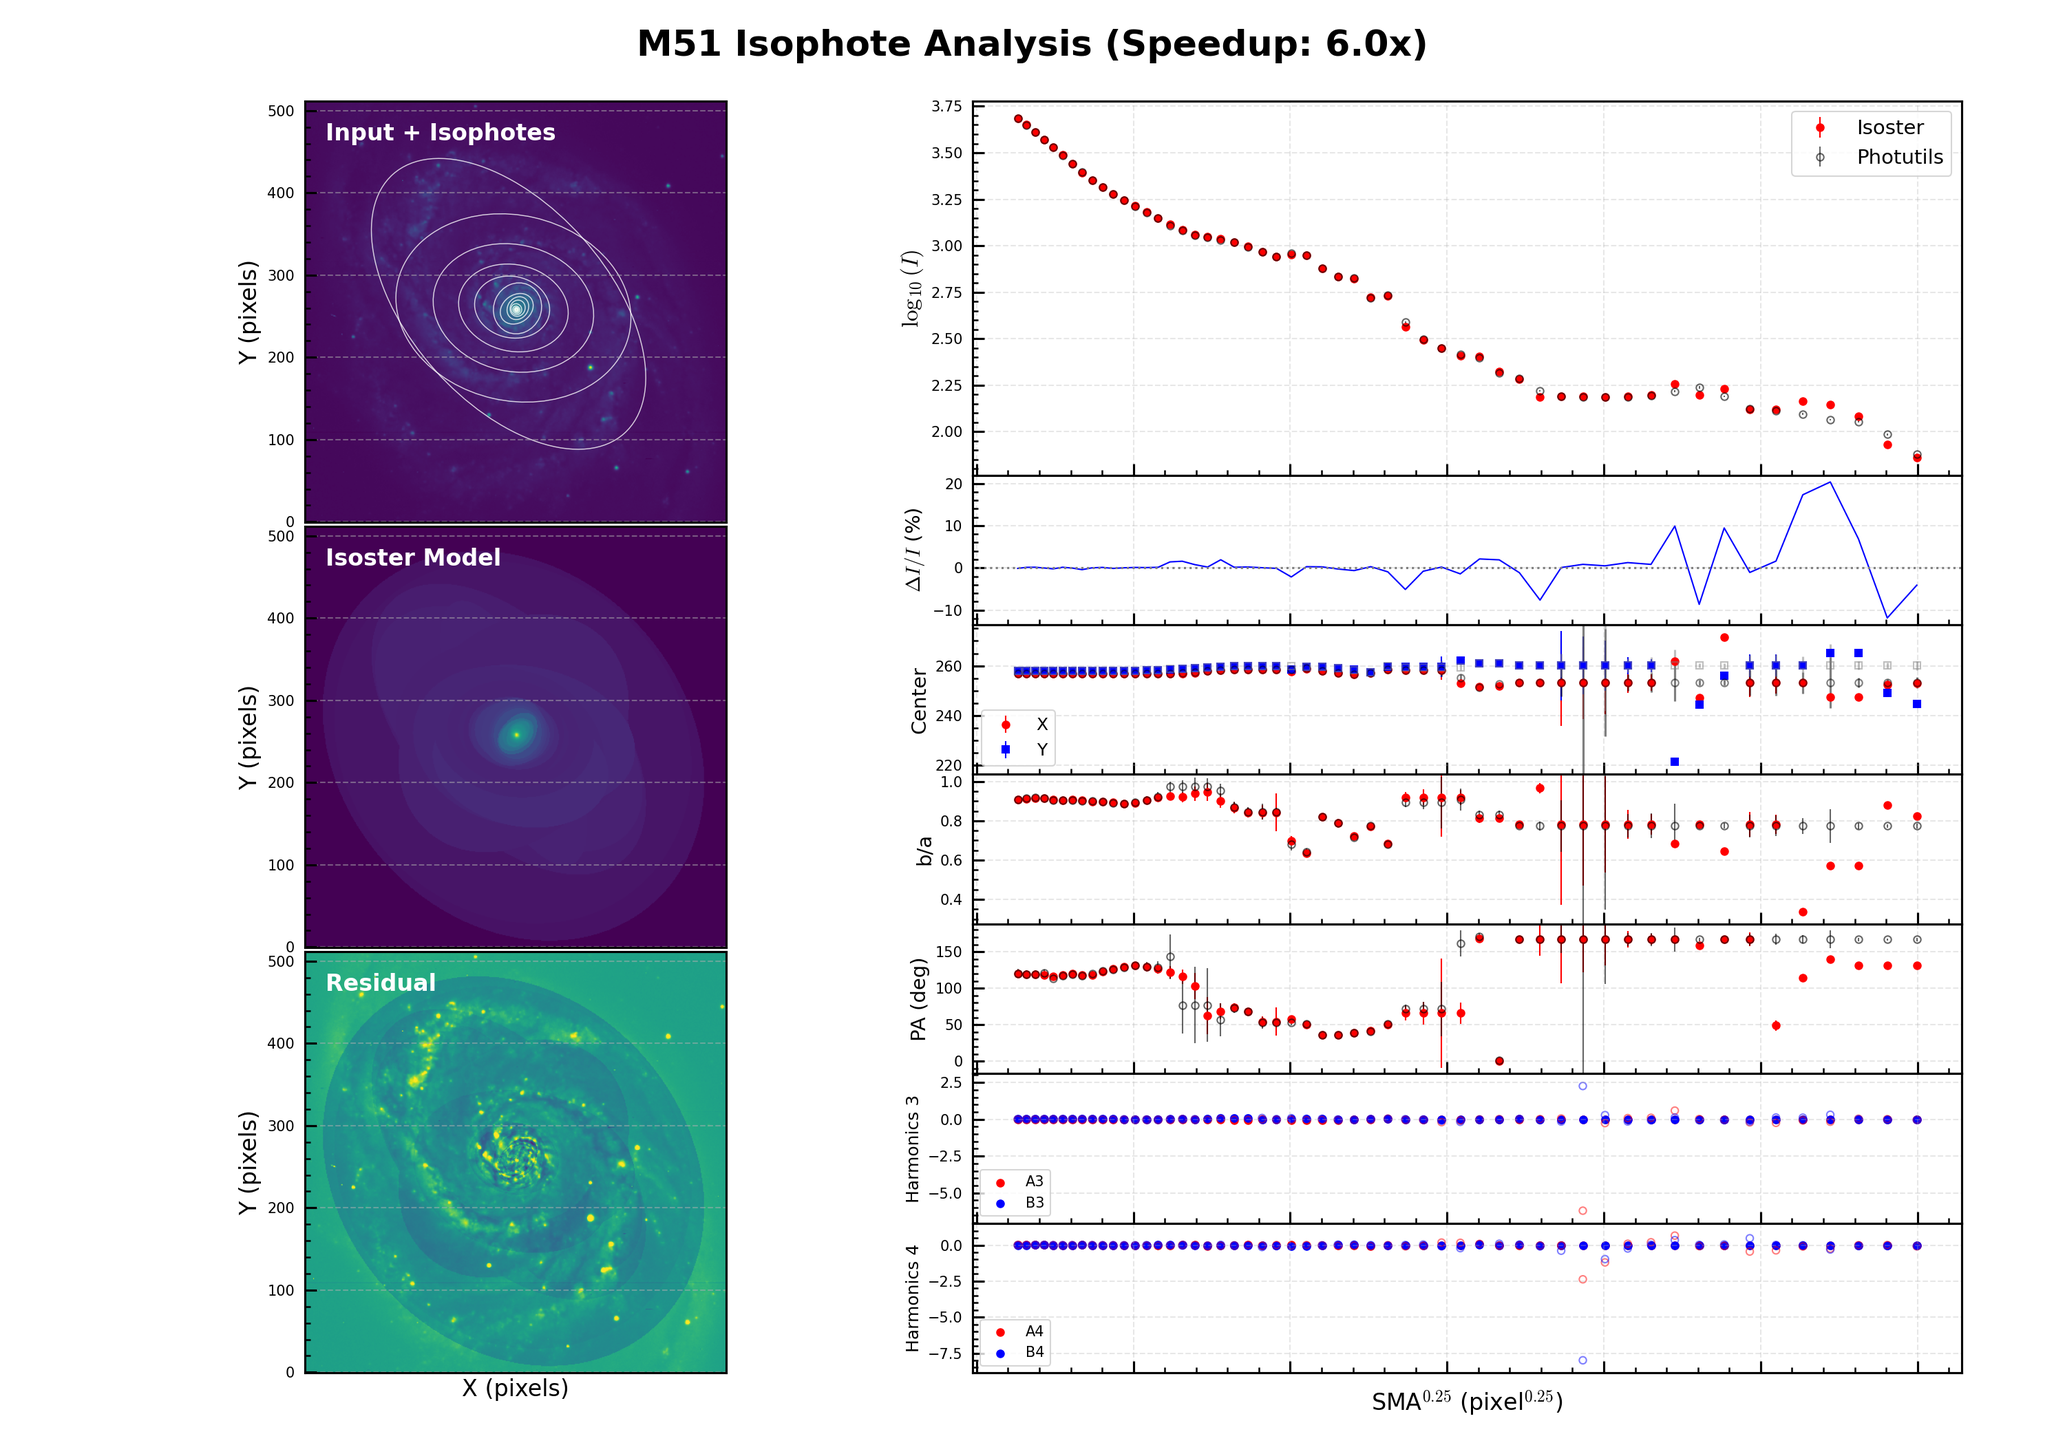
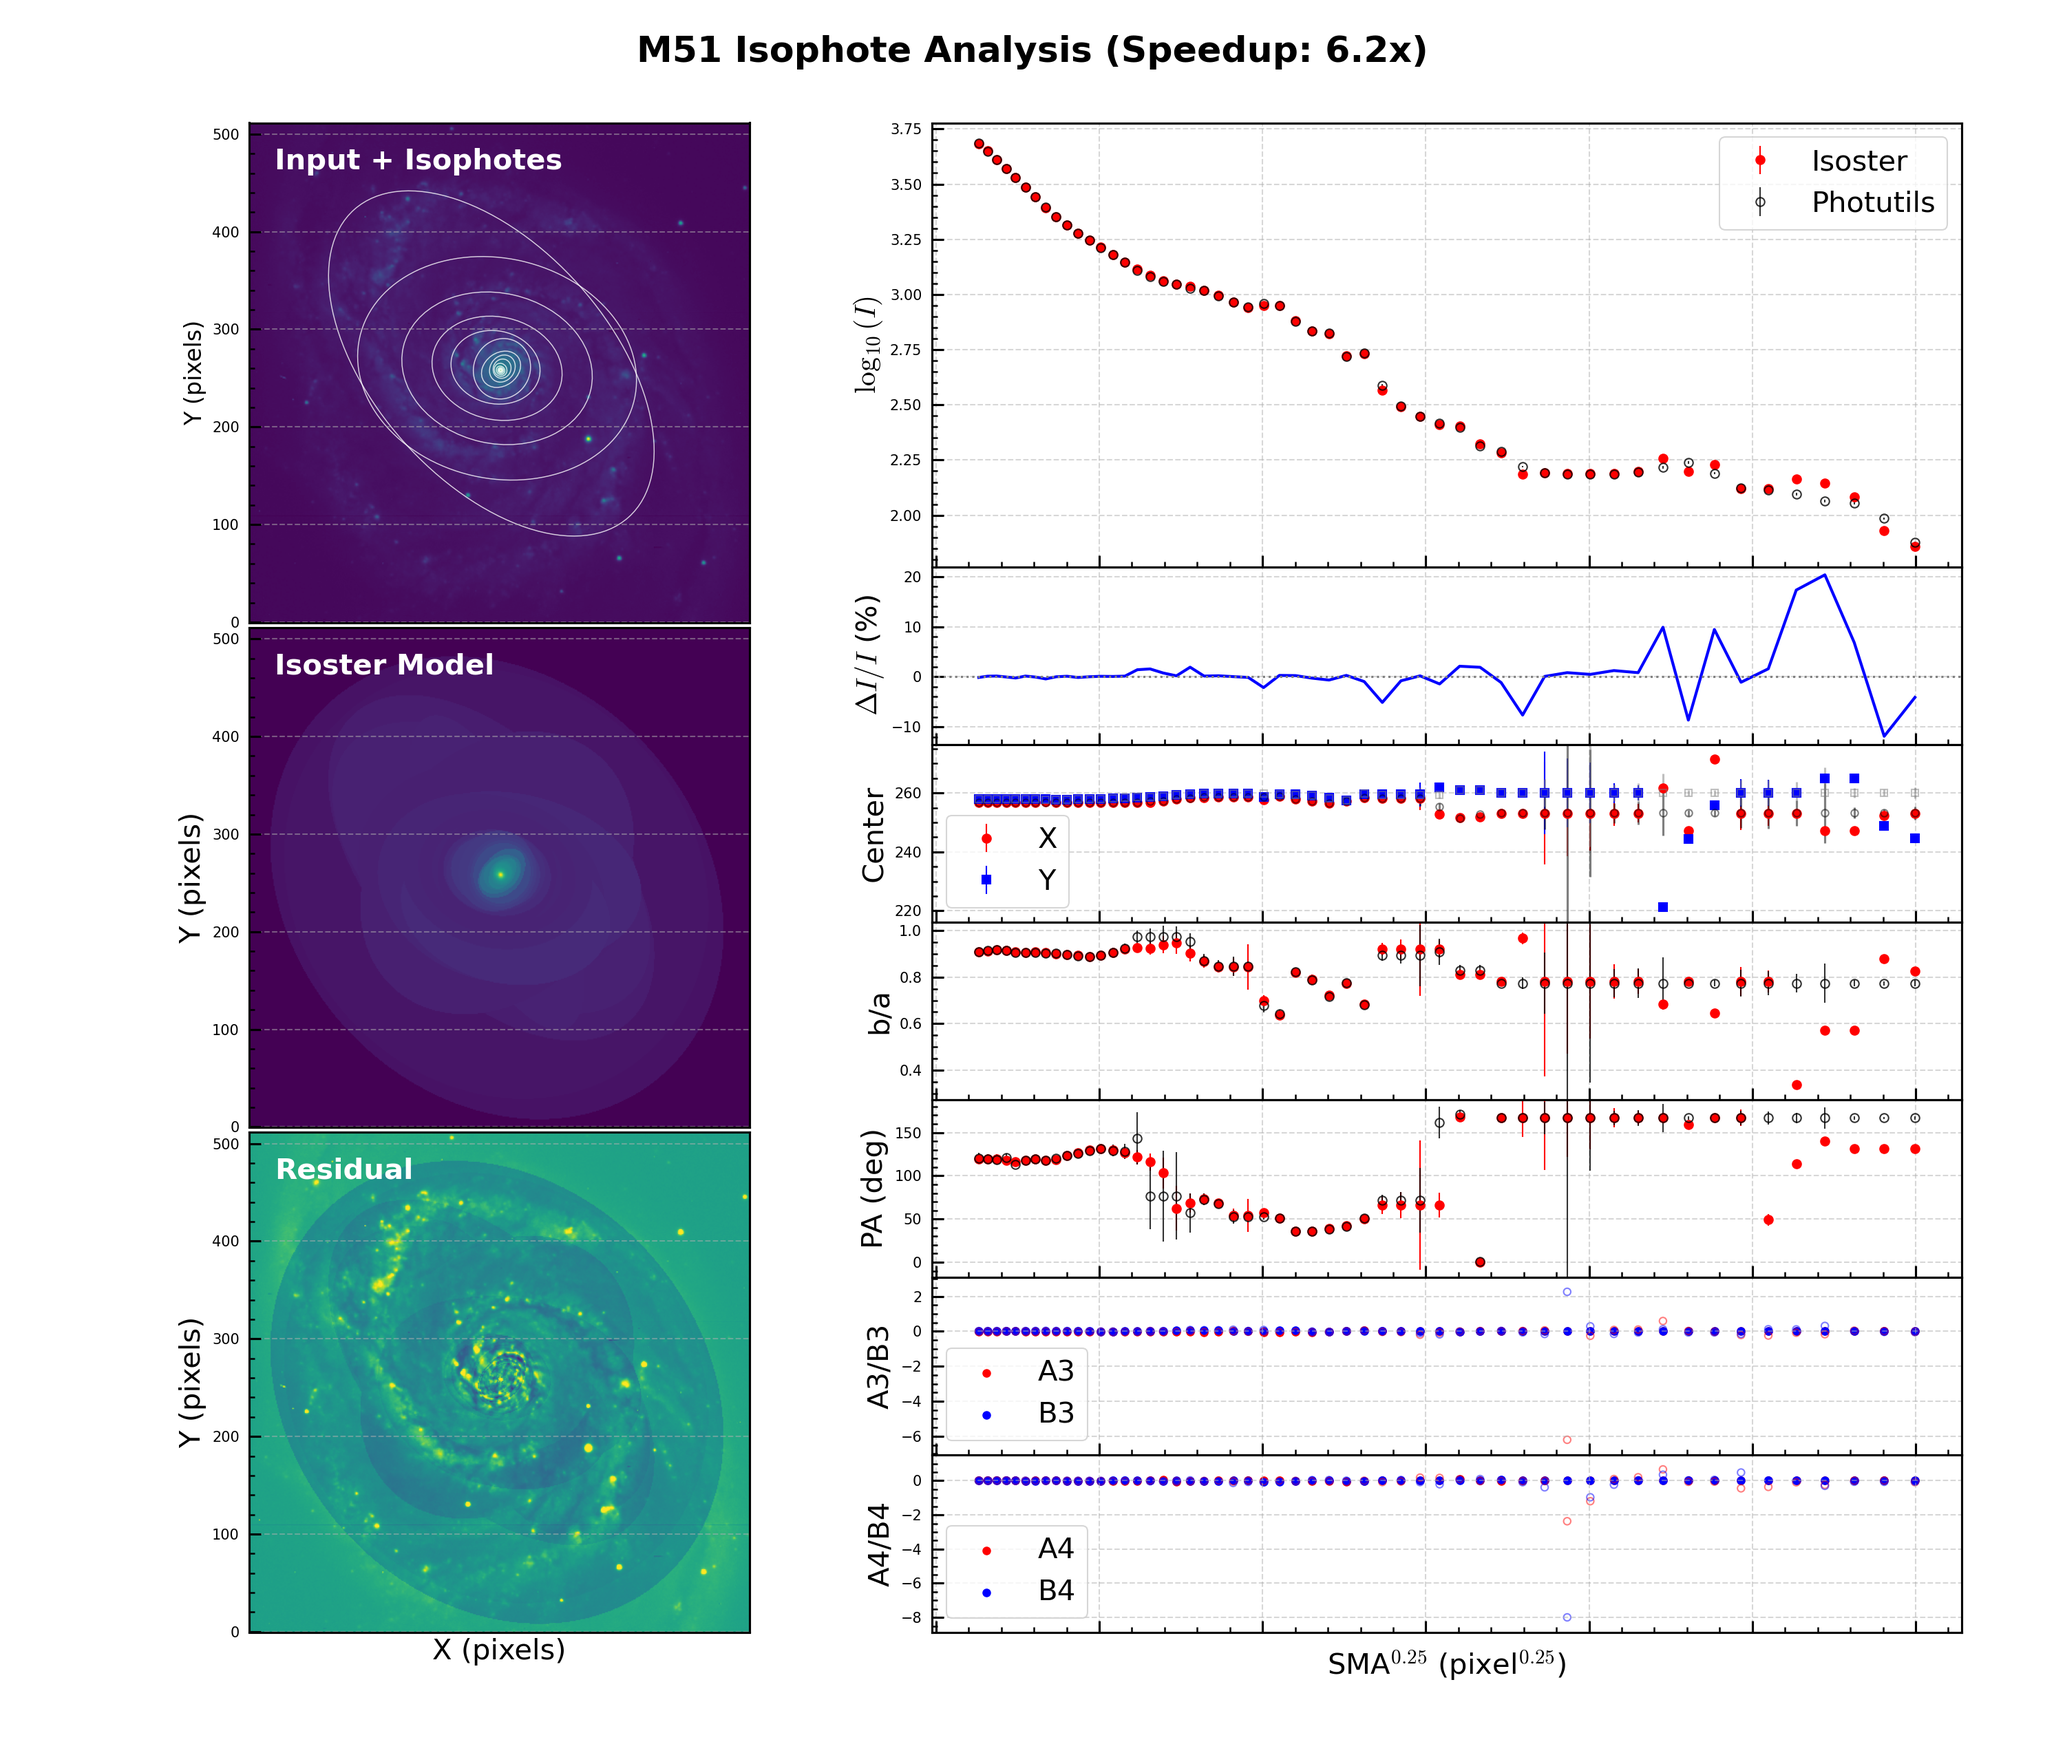
Manual plotting refinements: font sizes and layout

diff --git a/isoster/plotting.py b/isoster/plotting.py
@@ -38,11 +38,11 @@ def plot_qa_summary(title, image, isoster_model, isoster_res, photutils_res=None
         Output filename.
     """
     # Create Figure with constrained layout for better spacing control
-    fig = plt.figure(figsize=(20, 14))
+    fig = plt.figure(figsize=(20, 17))
     
     # Outer GridSpec: 1 row, 2 columns (Images vs Profiles)
     # Adjust top margin to bring title closer - user layout preserved
-    outer_gs = gridspec.GridSpec(1, 2, width_ratios=[1, 1.2], wspace=0.05, top=0.93, bottom=0.05, left=0.05, right=0.95)
+    outer_gs = gridspec.GridSpec(1, 2, width_ratios=[1, 1.3], wspace=0.04, top=0.93, bottom=0.07, left=0.05, right=0.95)
     
     fig.suptitle(title, fontsize=25, weight='bold', y=0.98) 
     
@@ -71,15 +71,15 @@ def plot_qa_summary(title, image, isoster_model, isoster_res, photutils_res=None
                          edgecolor='white', facecolor='none', linewidth=0.7, alpha=0.8)
         ax_img.add_patch(ell)
     
-    ax_img.text(0.05, 0.95, "Input + Isophotes", transform=ax_img.transAxes, color='white', weight='bold', va='top', fontsize=16)
+    ax_img.text(0.05, 0.95, "Input + Isophotes", transform=ax_img.transAxes, color='white', weight='bold', va='top', fontsize=20)
     ax_img.set_xticks([])
 
     # 2. Model Image
     ax_mod = fig.add_subplot(left_gs[1], sharex=ax_img, sharey=ax_img)
     ax_mod.imshow(norm(isoster_model), origin='lower', cmap='viridis')
-    ax_mod.text(0.05, 0.95, "Isoster Model", transform=ax_mod.transAxes, color='white', weight='bold', va='top', fontsize=16)
+    ax_mod.text(0.05, 0.95, "Isoster Model", transform=ax_mod.transAxes, color='white', weight='bold', va='top', fontsize=20)
     ax_mod.set_xticks([])
-    ax_mod.set_ylabel('Y (pixels)', fontsize=16)
+    ax_mod.set_ylabel('Y (pixels)', fontsize=20)
 
     # 3. Residual Image
     ax_res = fig.add_subplot(left_gs[2], sharex=ax_img, sharey=ax_img)
@@ -87,9 +87,9 @@ def plot_qa_summary(title, image, isoster_model, isoster_res, photutils_res=None
     # Residual scaling
     res_std = np.std(residual[~np.isnan(residual)])
     ax_res.imshow(residual, origin='lower', cmap='viridis', vmin=-3*res_std, vmax=3*res_std)
-    ax_res.text(0.05, 0.95, "Residual", transform=ax_res.transAxes, color='white', weight='bold', va='top', fontsize=16)
-    ax_res.set_xlabel('X (pixels)', fontsize=16)
-    ax_res.set_ylabel('Y (pixels)', fontsize=16)
+    ax_res.text(0.05, 0.95, "Residual", transform=ax_res.transAxes, color='white', weight='bold', va='top', fontsize=20)
+    ax_res.set_xlabel('X (pixels)', fontsize=20)
+    ax_res.set_ylabel('Y (pixels)', fontsize=20)
 
     # --- Right Column: 1D Profiles (7 rows) ---
     right_gs = gridspec.GridSpecFromSubplotSpec(7, 1, subplot_spec=outer_gs[1], 
@@ -147,8 +147,9 @@ def plot_qa_summary(title, image, isoster_model, isoster_res, photutils_res=None
     axes_profiles = []
     
     # Common plot settings
-    scatter_kwargs_iso = {'fmt': 'o', 'color': 'red', 'markersize': 5, 'label': 'Isoster', 'elinewidth': 1}
-    scatter_kwargs_phot = {'fmt': 'o', 'markerfacecolor': 'none', 'markeredgecolor': 'black', 'color': 'black', 'markersize': 5, 'label': 'Photutils', 'elinewidth': 1, 'alpha': 0.6}
+    scatter_kwargs_iso = {'fmt': 'o', 'color': 'red', 'markersize': 6, 'label': 'Isoster', 'elinewidth': 1}
+    scatter_kwargs_phot = {'fmt': 'o', 'markerfacecolor': 'none', 'markeredgecolor': 'black', 'color': 'black', 'markersize': 6,
+                           'label': 'Photutils', 'elinewidth': 1, 'linewidth': 2, 'alpha': 0.8}
     
     # Helper to set Y limits based on data points only (ignoring errorbars)
     def set_ylim_data(ax, data1, data2=None, pad=0.1):
@@ -178,9 +179,9 @@ def plot_qa_summary(title, image, isoster_model, isoster_res, photutils_res=None
         yerr_phot = p_intens_err[p_mask] / (p_intens[p_mask] * np.log(10))
         ax1.errorbar(p_x_axis, y_phot, yerr=yerr_phot, **scatter_kwargs_phot)
         
-    ax1.set_ylabel(r'$\log_{10}(I)$', fontsize=16)
-    ax1.legend(loc='upper right', fontsize=14)
-    ax1.grid(True, alpha=0.3)
+    ax1.set_ylabel(r'$\log_{10}(I)$', fontsize=20)
+    ax1.legend(loc='upper right', fontsize=20)
+    ax1.grid(True, alpha=0.5)
     ax1.set_xticklabels([])
     axes_profiles.append(ax1)
 
@@ -188,17 +189,17 @@ def plot_qa_summary(title, image, isoster_model, isoster_res, photutils_res=None
     ax2 = fig.add_subplot(right_gs[1], sharex=ax1)
     if photutils_res:
         diff = ((i_intens - p_intens_interp) / p_intens_interp) * 100.0
-        ax2.plot(x_axis, diff, 'b-', lw=1)
+        ax2.plot(x_axis, diff, 'b-', lw=2)
         ax2.axhline(0, color='gray', ls=':')
-    ax2.set_ylabel(r'$\Delta I/I$ (%)', fontsize=14)
-    ax2.grid(True, alpha=0.3)
+    ax2.set_ylabel(r'$\Delta I/I$ (%)', fontsize=20)
+    ax2.grid(True, alpha=0.5)
     ax2.set_xticklabels([])
     axes_profiles.append(ax2)
 
     # 3. Center X & Y
     ax3 = fig.add_subplot(right_gs[2], sharex=ax1)
-    ax3.errorbar(x_axis, i_x0, yerr=i_x0_err, fmt='o', color='red', markersize=5, label='X', elinewidth=1)
-    ax3.errorbar(x_axis, i_y0, yerr=i_y0_err, fmt='s', color='blue', markersize=5, label='Y', elinewidth=1)
+    ax3.errorbar(x_axis, i_x0, yerr=i_x0_err, fmt='o', color='red', markersize=6, label='X', elinewidth=1)
+    ax3.errorbar(x_axis, i_y0, yerr=i_y0_err, fmt='s', color='blue', markersize=6, label='Y', elinewidth=1)
     
     if photutils_res:
         ax3.errorbar(p_x_axis, p_x0[p_mask], yerr=p_x0_err[p_mask], fmt='o', markerfacecolor='none', markeredgecolor='black', color='black', alpha=0.5, markersize=5)
@@ -208,9 +209,9 @@ def plot_qa_summary(title, image, isoster_model, isoster_res, photutils_res=None
     set_ylim_data(ax3, np.concatenate([i_x0, i_y0]), 
                  np.concatenate([p_x0[p_mask], p_y0[p_mask]]) if photutils_res else None)
         
-    ax3.set_ylabel('Center', fontsize=14)
-    ax3.legend(fontsize=12, loc='best')
-    ax3.grid(True, alpha=0.3)
+    ax3.set_ylabel('Center', fontsize=20)
+    ax3.legend(fontsize=20, loc='best')
+    ax3.grid(True, alpha=0.5)
     ax3.set_xticklabels([])
 
     # 4. Axis Ratio (1 - eps)
@@ -226,8 +227,8 @@ def plot_qa_summary(title, image, isoster_model, isoster_res, photutils_res=None
     
     set_ylim_data(ax4, y_ba_iso, y_ba_phot)
         
-    ax4.set_ylabel('b/a', fontsize=14)
-    ax4.grid(True, alpha=0.3)
+    ax4.set_ylabel('b/a', fontsize=20)
+    ax4.grid(True, alpha=0.5)
     ax4.set_xticklabels([])
 
     # 5. Position Angle
@@ -245,8 +246,8 @@ def plot_qa_summary(title, image, isoster_model, isoster_res, photutils_res=None
 
     set_ylim_data(ax5, y_pa_iso, y_pa_phot)
 
-    ax5.set_ylabel('PA (deg)', fontsize=14)
-    ax5.grid(True, alpha=0.3)
+    ax5.set_ylabel('PA (deg)', fontsize=20)
+    ax5.grid(True, alpha=0.5)
     ax5.set_xticklabels([])
 
     # 6. A3 / B3
@@ -262,9 +263,9 @@ def plot_qa_summary(title, image, isoster_model, isoster_res, photutils_res=None
         
     set_ylim_data(ax6, np.concatenate([i_a3, i_b3]), phot_harm3)
     
-    ax6.set_ylabel('Harmonics 3', fontsize=12)
-    ax6.legend(fontsize=10, loc='best')
-    ax6.grid(True, alpha=0.3)
+    ax6.set_ylabel('A3/B3', fontsize=20)
+    ax6.legend(fontsize=20, loc='best')
+    ax6.grid(True, alpha=0.5)
     ax6.set_xticklabels([])
 
     # 7. A4 / B4
@@ -280,10 +281,10 @@ def plot_qa_summary(title, image, isoster_model, isoster_res, photutils_res=None
 
     set_ylim_data(ax7, np.concatenate([i_a4, i_b4]), phot_harm4)
 
-    ax7.set_ylabel('Harmonics 4', fontsize=12)
-    ax7.legend(fontsize=10, loc='best')
-    ax7.grid(True, alpha=0.3)
-    ax7.set_xlabel(r'SMA$^{0.25}$ (pixel$^{0.25}$)', fontsize=16)
+    ax7.set_ylabel('A4/B4', fontsize=20)
+    ax7.legend(fontsize=20, loc='best')
+    ax7.grid(True, alpha=0.5)
+    ax7.set_xlabel(r'SMA$^{0.25}$ (pixel$^{0.25}$)', fontsize=20)
     
     # Ensure tick labels are visible - Force it
     plt.setp(ax7.get_xticklabels(), visible=True)
